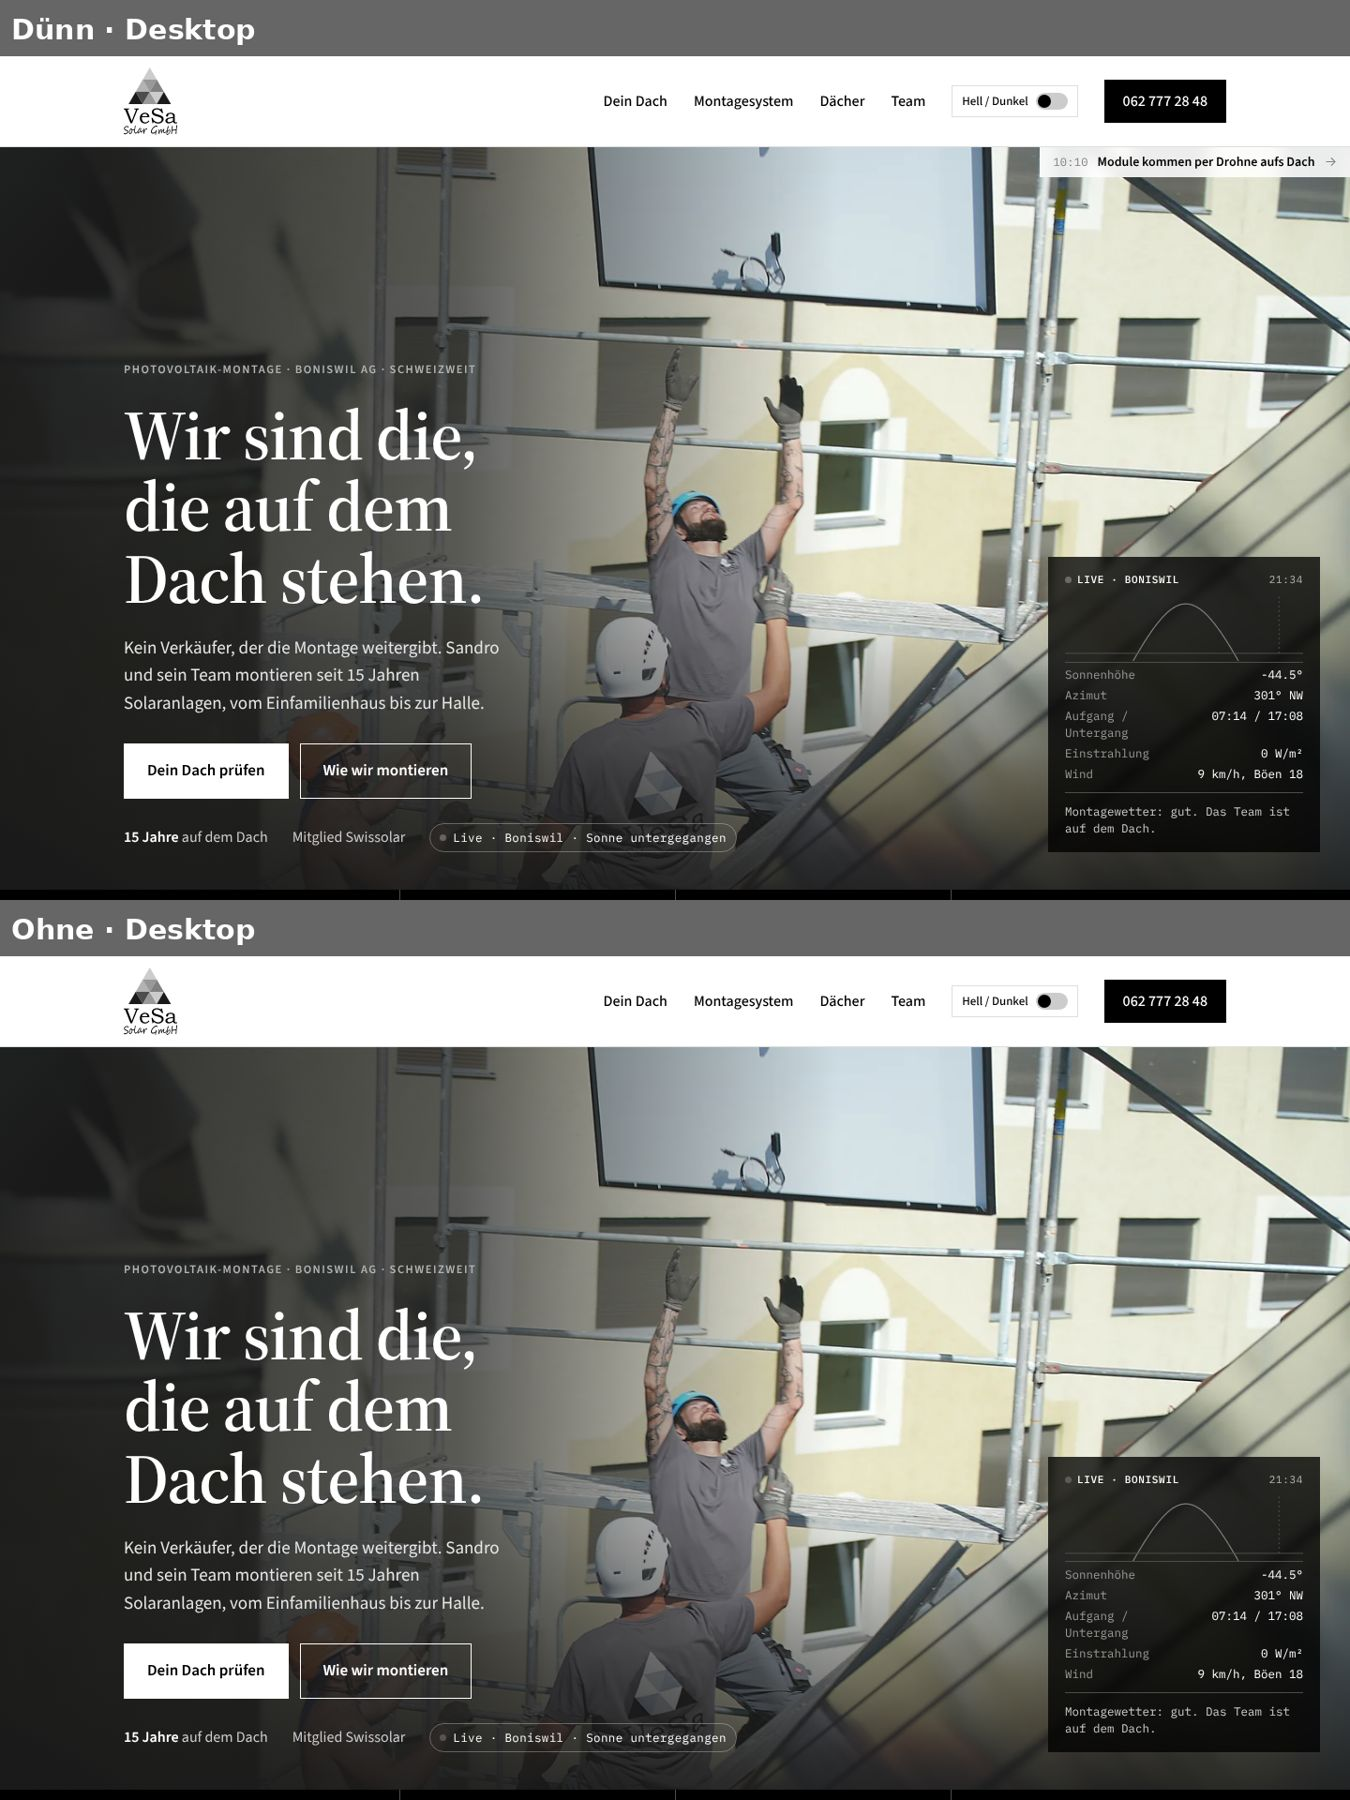
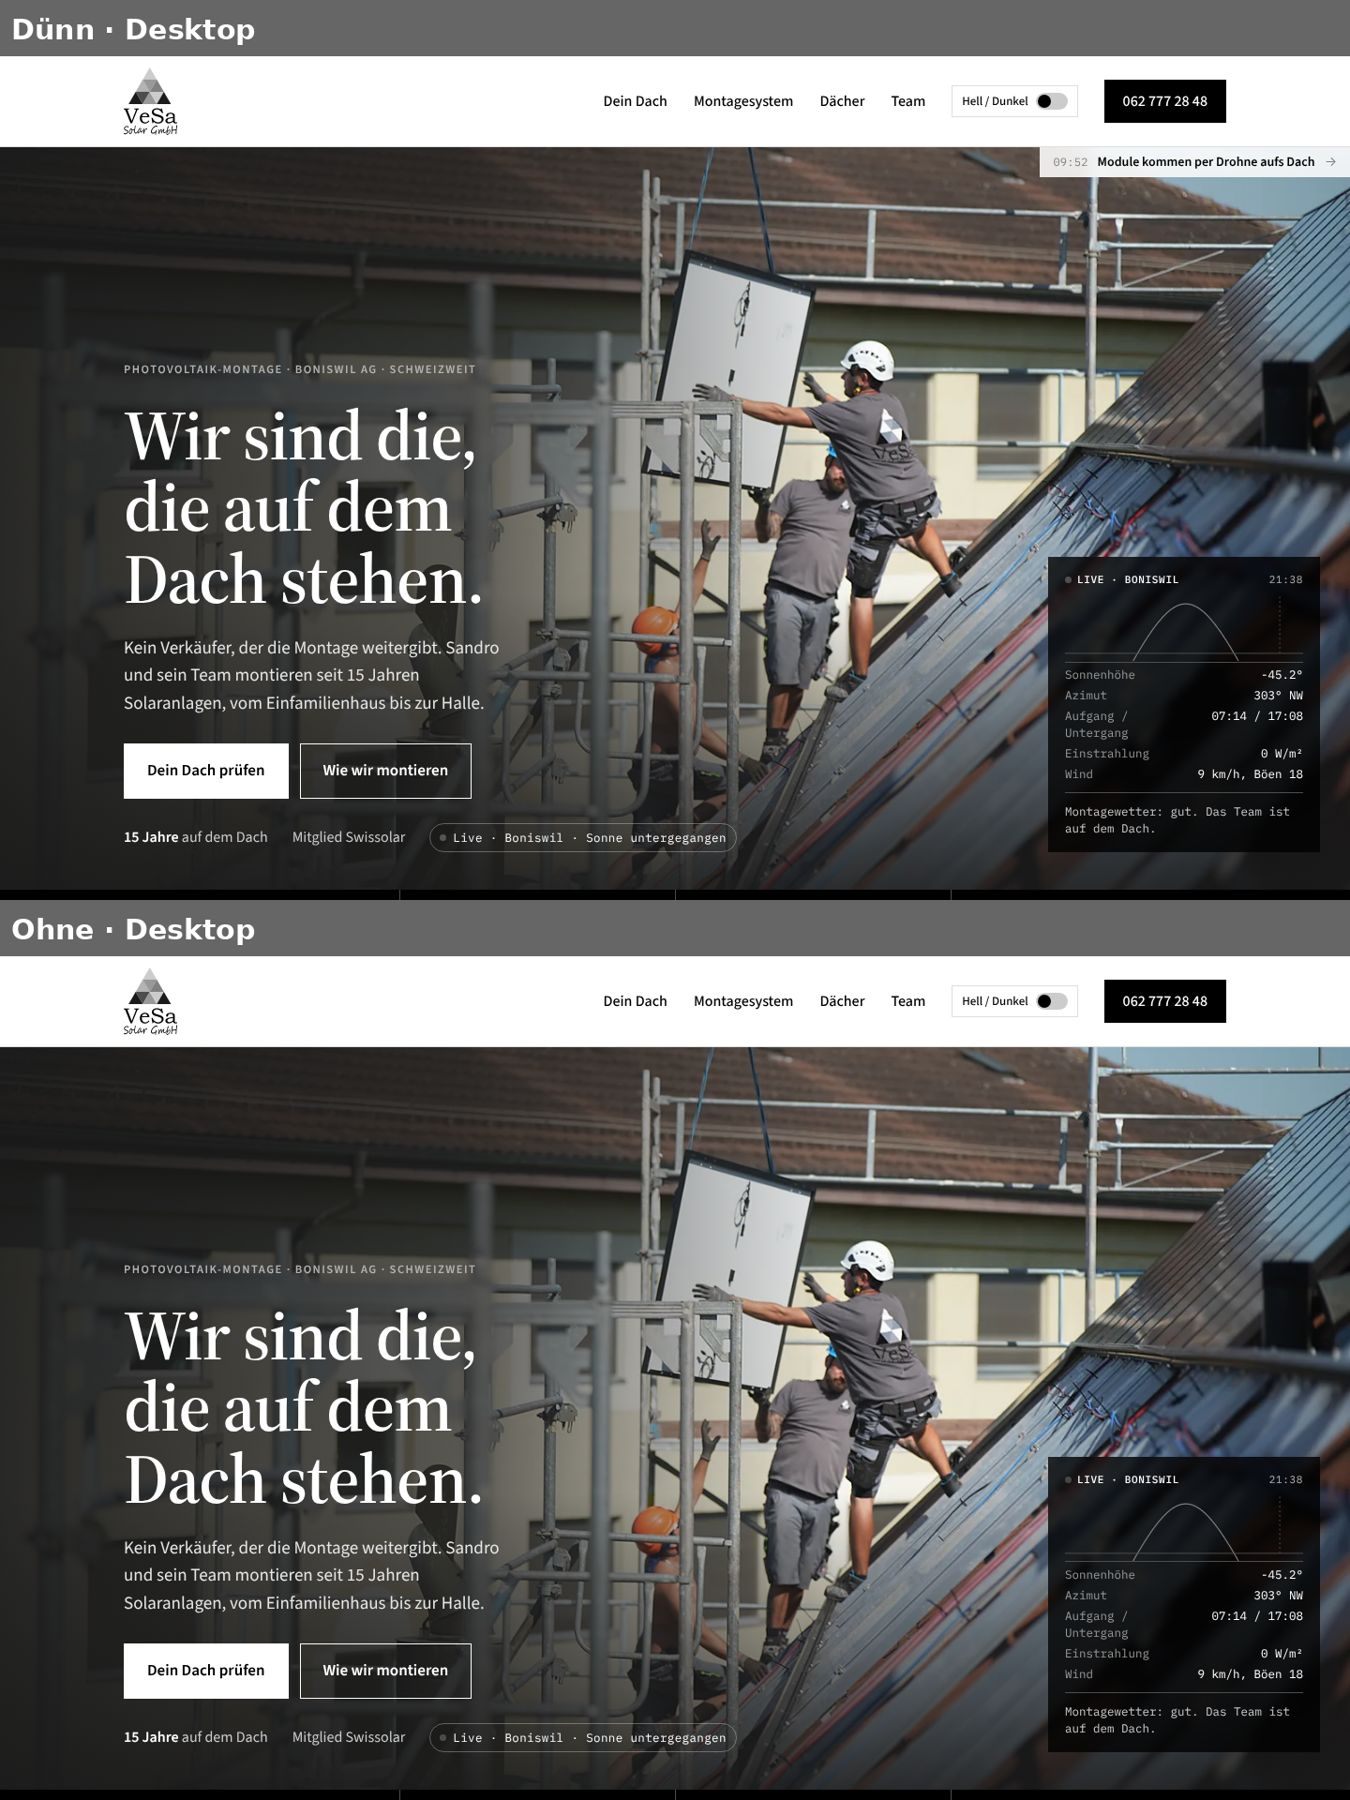
Slider: erstes Bild wieder A7408094, 112 und 113 entfernt (VES-029)
Claude-Session: https://claude.ai/code/session_01AmTsxfm8VPSTvFxMghAZew

diff --git a/entwuerfe/entwurf-e.html b/entwuerfe/entwurf-e.html
@@ -218,12 +218,12 @@ html[data-cap="ohne"] .cap{display:none}
 
 <div class="hero2" id="hero">
  <div class="slides" id="slides">
-  <figure class="slide on" data-t="Module kommen per Drohne aufs Dach" data-s="10:10" style="--d:50% 18%;--m:52% 20%"><img src="../fotos/auftrag/modul-annahme-1600.webp" srcset="../fotos/auftrag/modul-annahme-900.webp 900w, ../fotos/auftrag/modul-annahme-1600.webp 1600w, ../fotos/auftrag/modul-annahme-2400.webp 2400w, ../fotos/auftrag/modul-annahme-3840.webp 3840w" sizes="(max-width: 900px) 760px, 100vw" alt="Ein Solarmodul schwebt an der Drohne heran, drei Monteure auf dem Gerüst strecken die Hände danach"></figure>
+  <figure class="slide on" data-t="Module kommen per Drohne aufs Dach" data-s="09:52" style="--d:60% 40%;--m:64% 40%"><img src="../fotos/auftrag/drohne-anflug-1600.webp" srcset="../fotos/auftrag/drohne-anflug-900.webp 900w, ../fotos/auftrag/drohne-anflug-1600.webp 1600w, ../fotos/auftrag/drohne-anflug-2400.webp 2400w, ../fotos/auftrag/drohne-anflug-3840.webp 3840w" sizes="(max-width: 900px) 760px, 100vw" alt="Ein Solarmodul hängt an der Drohne, das Team nimmt es auf dem Gerüst an"></figure>
   <figure class="slide" data-t="Der Pilot fliegt vom Kamin aus" data-s="09:44" style="--d:55% 40%;--m:52% 45%"><img src="../fotos/auftrag/pilot-kamin-1600.webp" srcset="../fotos/auftrag/pilot-kamin-900.webp 900w, ../fotos/auftrag/pilot-kamin-1600.webp 1600w, ../fotos/auftrag/pilot-kamin-2400.webp 2400w, ../fotos/auftrag/pilot-kamin-3840.webp 3840w" sizes="(max-width: 900px) 760px, 100vw" alt="Der Drohnenpilot sitzt mit Helm und Fernsteuerung auf dem Kamin" loading="lazy"></figure>
   <figure class="slide" data-t="Unterbau ab halb acht" data-s="07:33" style="--d:50% 40%;--m:52% 40%"><img src="../fotos/auftrag/unterbau-morgen-1600.webp" srcset="../fotos/auftrag/unterbau-morgen-900.webp 900w, ../fotos/auftrag/unterbau-morgen-1600.webp 1600w, ../fotos/auftrag/unterbau-morgen-2400.webp 2400w, ../fotos/auftrag/unterbau-morgen-3840.webp 3840w" sizes="(max-width: 900px) 760px, 100vw" alt="Ein Monteur schraubt die Schienen der Unterkonstruktion auf das Ziegeldach" loading="lazy"></figure>
   <figure class="slide" data-t="Drohne startklar" data-s="09:06" style="--d:62% 50%;--m:74% 50%"><img src="../fotos/auftrag/drohne-startklar-1600.webp" srcset="../fotos/auftrag/drohne-startklar-900.webp 900w, ../fotos/auftrag/drohne-startklar-1600.webp 1600w, ../fotos/auftrag/drohne-startklar-2400.webp 2400w, ../fotos/auftrag/drohne-startklar-3840.webp 3840w" sizes="(max-width: 900px) 760px, 100vw" alt="Zwei Männer stehen auf einer Wiese neben der startklaren Transportdrohne" loading="lazy"></figure>
  </div>
- <a class="cap" href="#system" id="cap"><span id="cap-s">10:10</span><b id="cap-t">Module kommen per Drohne aufs Dach</b><span class="cap-l">→</span></a>
+ <a class="cap" href="#system" id="cap"><span id="cap-s">09:52</span><b id="cap-t">Module kommen per Drohne aufs Dach</b><span class="cap-l">→</span></a>
  <div class="live" id="live">
    <div class="t"><b>Live · Boniswil</b><span id="lv-time">–</span></div>
    <div class="sun"><svg viewBox="0 0 260 70" id="sunpath"></svg></div>
@@ -482,10 +482,6 @@ sonnendach($('sdq').value);
 /* ---------- Kopf: Foto (1) oder Slider (2) ---------- */
 (function(){
  const q=new URLSearchParams(location.search), mode=q.get('hero')||'2', r=document.documentElement; r.dataset.hero=mode; if(q.get('cap')) r.dataset.cap=q.get('cap');
- if(q.get('erstes')==='113'){ const f=document.querySelector('.slide'), im=f.querySelector('img'), b='../fotos/auftrag/modul-griff';
-  im.srcset=b+'-900.webp 900w, '+b+'-1600.webp 1600w, '+b+'-2400.webp 2400w, '+b+'-3840.webp 3840w'; im.src=b+'-1600.webp';
-  im.alt='Ein Monteur greift mit beiden Händen nach dem Solarmodul, das die Drohne heranbringt';
-  f.style.setProperty('--d','55% 72%'); f.style.setProperty('--m','50% 40%'); }
  const hero=document.getElementById('hero'), slides=[...document.querySelectorAll('.slide')], bars=[...document.querySelectorAll('#bars button')];
  const capT=document.getElementById('cap-t'), capS=document.getElementById('cap-s');
  const DUR=6000; let i=0, tm=null;

diff --git a/LOGBUCH.md b/LOGBUCH.md
@@ -273,3 +273,16 @@ Die Vorgeschichte steht im formateins-Logbuch unter ENT-078 bis ENT-082.
   Slider (erstes Bild 112, vier Bilder nach VES-027): Desktop 1440 px und
   Handy 375/390 px, hell und dunkel, ohne Skriptfehler. Die Wahl dünn oder
   ohne bleibt offen (VES-022).
+- [x] **VES-029** · 03.11.2026 · **Erstes Bild wieder A7408094** (Adrian,
+  zum Vergleich aus VES-028: «nein das bild nehmen wo ich geschickt habe im
+  beispiel!»). Gemeint ist das Bild aus dem alten Vergleich: A7408094
+  «Module kommen per Drohne aufs Dach», 09:52, drei Monteure auf dem Gerüst,
+  das Modul hängt schräg an der Drohne. Die Annahme aus VES-024 war falsch:
+  A7408112 sollte nicht A7408094 ersetzen. A7408094 ist neu aufbereitet,
+  ganzes Bild, nachgeschärft, 900 bis 3840 px
+  (`fotos/auftrag/drohne-anflug-*.webp`). Entfernt: A7408112
+  (`modul-annahme-*`) und A7408113 (`modul-griff-*`, `?erstes=113`). Damit
+  ist die Wahl aus VES-026 hinfällig. Beide lassen sich aus dem Verlauf
+  zurückholen. Kontaktbogen und Vergleich `karte-duenn-ohne-*.jpg` sind neu.
+  Geprüft auf 390 px (lädt 2400 px) und 1920 px Retina (lädt 3840 px),
+  ohne fehlende Dateien und ohne Skriptfehler.
